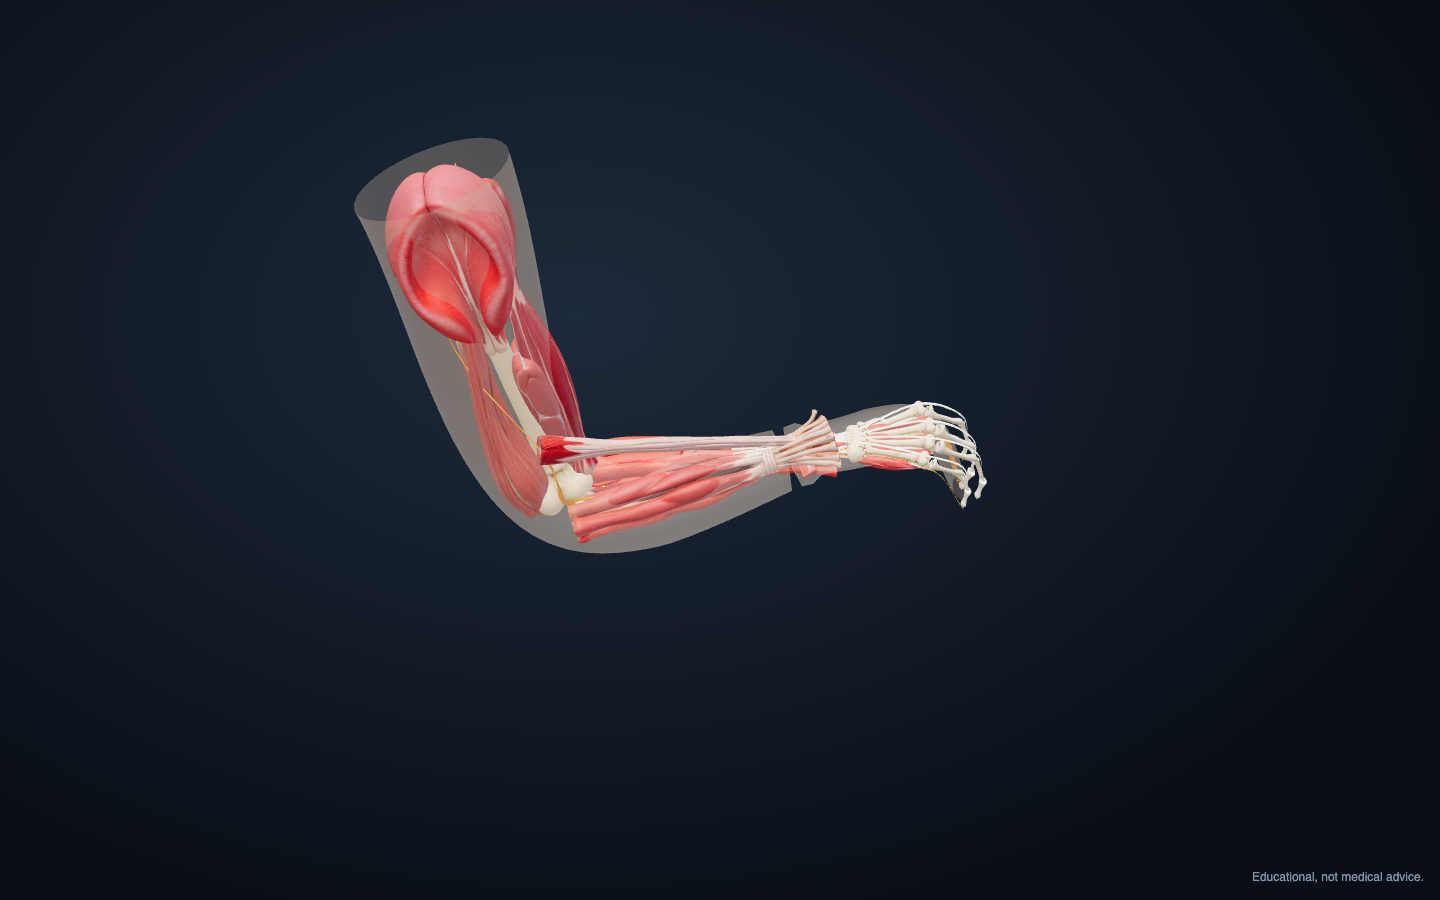
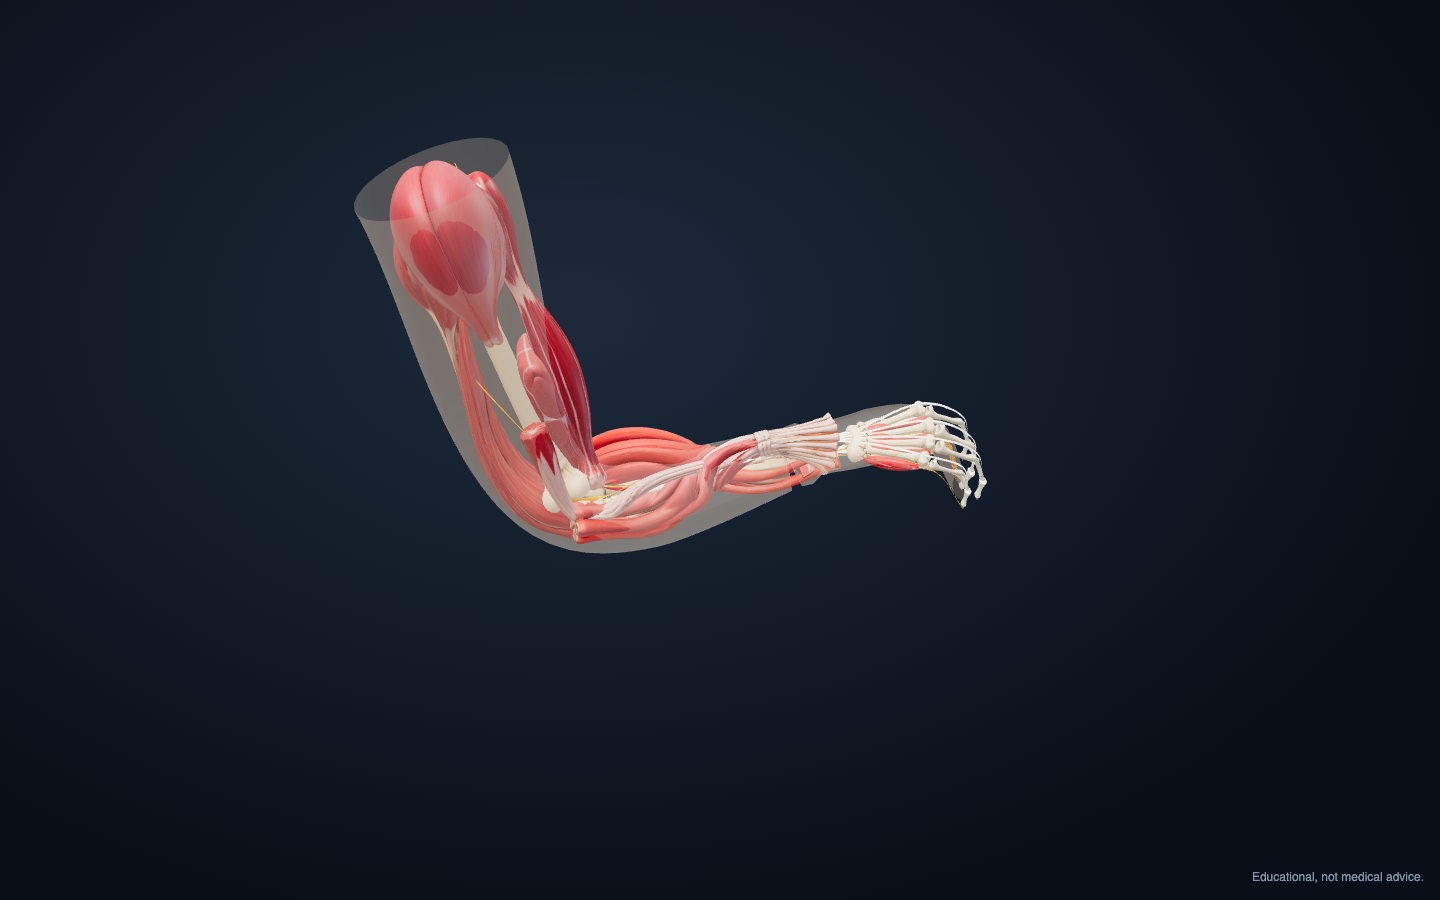
X-ray arm: turn it in 3D, muscles attached along anatomical paths
- Drag to rotate, scroll to zoom, arrows, Front/Side/Back in /arm-demo (view prop on ArmXrayView);
  hideLayers prop (e.g. no skin)
- Deltoid, biceps, triceps, brachialis, brachioradialis and the flexor/extensor groups are bent
  along origin -> joint -> insertion instead of straight rods; deltoid hollow faces the humeral head
- New previews: side, back, muscles on bones

Changed region(s): [[0.25, 0.1556, 0.625, 0.6222]]

diff --git a/src/biology/arm/placement.ts b/src/biology/arm/placement.ts
@@ -38,6 +38,8 @@ export interface Placement {
   xAlong?: 'lateral' | 'anterior' | 'axis';
   /** finger this instance belongs to (keystroke pulses) */
   finger?: FingerId;
+  /** turn the mesh 180 degrees about its long axis (e.g. so a cupped muscle's hollow faces the bone) */
+  flipSide?: boolean;
 }
 
 const FOUR: FingerId[] = ['index', 'middle', 'ring', 'little'];
@@ -54,22 +56,84 @@ function fingerJoints(f: FingerId) {
 export function placements(): Placement[] {
   const out: Placement[] = [
     // ---- layer 2: superficial muscles
-    // deltoid caps the head of the humerus: starts just above the shoulder point
-    // deltoid: a cupped shell over the shoulder, origin around the acromion, insertion at the deltoid tuberosity
-    { mesh: 'deltoid', part: 'deltoid', key: '', girth: 0.3, xAlong: 'anterior', path: [{ p: 'pose.elbow>shoulder@1.04', f: 'upper', l: 0.3 }, { p: 'pose.shoulder>elbow@0.45', f: 'upper', l: 0.7 }] },
-    { mesh: 'biceps', part: 'biceps', key: '', girth: 0.17, path: [{ p: 'pose.shoulder>elbow@0.06', f: 'upper', a: 0.45 }, { p: 'pose.elbow>wrist@0.1', f: 'fore', a: 0.5 }] },
-    { mesh: 'triceps', part: 'triceps', key: '', girth: 0.2, path: [{ p: 'pose.shoulder>elbow@0.1', f: 'upper', a: -0.5 }, { p: 'pose.elbow', f: 'upper', a: -0.65 }] },
-    { mesh: 'brachioradialis', part: 'brachioradialis', key: '', girth: 0.08, xAlong: 'anterior', path: [{ p: 'pose.shoulder>elbow@0.75', f: 'upper', l: 0.75 }, { p: 'pose.wrist', f: 'hand', l: 0.75, a: 0.1 }] },
-    // flexors: common origin on the MEDIAL epicondyle, bellies on the palm side
-    { mesh: 'forearm-flexors', part: 'forearm-flexors', key: '', girth: 0.17, path: [{ p: 'pose.elbow', f: 'fore', l: -0.6, a: 0.25 }, { p: 'pose.wrist', f: 'hand', a: 0.55, l: -0.05 }] },
-    // extensors: common origin on the LATERAL epicondyle, on the back of the forearm
-    { mesh: 'forearm-extensors', part: 'forearm-extensors', key: '', girth: 0.16, path: [{ p: 'pose.elbow', f: 'fore', l: 0.6, a: -0.2 }, { p: 'pose.wrist', f: 'hand', a: -0.55, l: 0.05 }] },
-    { mesh: 'thenar', part: 'thenar', key: '', girth: 0.05, path: [{ p: 'hand.wrist', f: 'hand', l: 0.45, a: 0.7 }, { p: 'hand.thumb_mcp', f: 'hand', a: 0.6 }] },
-    { mesh: 'hypothenar', part: 'hypothenar', key: '', girth: 0.04, path: [{ p: 'hand.wrist', f: 'hand', l: -0.5, a: 0.7 }, { p: 'hand.little_mcp', f: 'hand', a: 0.6 }] },
+    // Muscles that cross or wrap a joint are BENT along a path through their real origin, the joint and their
+    // insertion, so they lie on the bones instead of cutting straight across the bend of the elbow.
+    // deltoid: from the acromion, wrapping over the head of the humerus, to the deltoid tuberosity (lateral, mid-shaft)
+    {
+      mesh: 'deltoid', part: 'deltoid', key: '', girth: 0.25, xAlong: 'anterior', flipSide: true, // hollow faces the humeral head
+      path: [
+        { p: 'pose.elbow>shoulder@1.05', f: 'upper', l: 0.15 },
+        { p: 'pose.shoulder>elbow@0.1', f: 'upper', l: 0.6 },
+        { p: 'pose.shoulder>elbow@0.45', f: 'upper', l: 0.45 },
+      ],
+    },
+    // biceps: from the scapula (shoulder), down the FRONT of the humerus, over the elbow to the radial tuberosity
+    {
+      mesh: 'biceps', part: 'biceps', key: '', girth: 0.17,
+      path: [
+        { p: 'pose.shoulder>elbow@0.04', f: 'upper', a: 0.35 },
+        { p: 'pose.shoulder>elbow@0.55', f: 'upper', a: 0.7 },
+        { p: 'pose.shoulder>elbow@0.92', f: 'upper', a: 0.55 },
+        { p: 'pose.elbow>wrist@0.12', f: 'fore', a: 0.25, l: 0.25 },
+      ],
+    },
+    // triceps: from the back of the scapula / humerus, down the BACK of the arm to the olecranon
+    {
+      mesh: 'triceps', part: 'triceps', key: '', girth: 0.2,
+      path: [
+        { p: 'pose.shoulder>elbow@0.08', f: 'upper', a: -0.45 },
+        { p: 'pose.shoulder>elbow@0.5', f: 'upper', a: -0.75 },
+        { p: 'pose.shoulder>elbow@0.9', f: 'upper', a: -0.7 },
+        { p: 'pose.elbow', f: 'fore', a: -0.75 },
+      ],
+    },
+    // brachioradialis: lateral supracondylar ridge -> round the lateral side of the elbow -> along the THUMB side
+    // of the forearm -> radial styloid
+    {
+      mesh: 'brachioradialis', part: 'brachioradialis', key: '', girth: 0.08, xAlong: 'anterior',
+      path: [
+        { p: 'pose.shoulder>elbow@0.7', f: 'upper', l: 0.6 },
+        { p: 'pose.elbow', f: 'upper', l: 0.7, a: 0.2 },
+        { p: 'pose.elbow>wrist@0.35', f: 'fore', l: 0.6, a: 0.25 },
+        { p: 'pose.wrist', f: 'hand', l: 0.55, a: 0.1 },
+      ],
+    },
+    // flexors: common origin on the MEDIAL epicondyle, hugging the palm side of the forearm to the wrist
+    {
+      mesh: 'forearm-flexors', part: 'forearm-flexors', key: '', girth: 0.16,
+      path: [
+        { p: 'pose.elbow', f: 'fore', l: -0.75, a: 0.15 },
+        { p: 'pose.elbow>wrist@0.3', f: 'fore', a: 0.55, l: -0.35 },
+        { p: 'pose.elbow>wrist@0.7', f: 'fore', a: 0.55, l: -0.1 },
+        { p: 'pose.wrist', f: 'hand', a: 0.5 },
+      ],
+    },
+    // extensors: common origin on the LATERAL epicondyle, along the back of the forearm to the wrist
+    {
+      mesh: 'forearm-extensors', part: 'forearm-extensors', key: '', girth: 0.15,
+      path: [
+        { p: 'pose.elbow', f: 'fore', l: 0.75, a: -0.1 },
+        { p: 'pose.elbow>wrist@0.3', f: 'fore', a: -0.55, l: 0.35 },
+        { p: 'pose.elbow>wrist@0.7', f: 'fore', a: -0.55, l: 0.1 },
+        { p: 'pose.wrist', f: 'hand', a: -0.5 },
+      ],
+    },
+    // thenar: from the flexor retinaculum / trapezium (thumb side of the wrist) to the base of the thumb
+    { mesh: 'thenar', part: 'thenar', key: '', girth: 0.05, path: [{ p: 'hand.wrist>index_mcp@0.15', f: 'hand', l: 0.4, a: 0.55 }, { p: 'hand.thumb_mcp', f: 'hand', a: 0.45 }] },
+    // hypothenar: from the pisiform / hamate (little-finger side of the wrist) to the base of the little finger
+    { mesh: 'hypothenar', part: 'hypothenar', key: '', girth: 0.04, path: [{ p: 'hand.wrist>little_mcp@0.15', f: 'hand', l: -0.5, a: 0.55 }, { p: 'hand.little_mcp', f: 'hand', a: 0.45, l: -0.2 }] },
     // ---- layer 3: deep muscles
-    { mesh: 'brachialis', part: 'brachialis', key: '', girth: 0.15, path: [{ p: 'pose.shoulder>elbow@0.5', f: 'upper', a: 0.2 }, { p: 'pose.elbow>wrist@0.08', f: 'fore', a: 0.3 }] },
+    // brachialis: lower half of the front of the humerus, DEEP to the biceps, over the elbow to the coronoid process
+    {
+      mesh: 'brachialis', part: 'brachialis', key: '', girth: 0.14,
+      path: [
+        { p: 'pose.shoulder>elbow@0.5', f: 'upper', a: 0.3 },
+        { p: 'pose.shoulder>elbow@0.9', f: 'upper', a: 0.4 },
+        { p: 'pose.elbow>wrist@0.1', f: 'fore', a: 0.15, l: -0.15 },
+      ],
+    },
     // pronator teres: medial epicondyle -> lateral side of the mid radius (oblique)
-    { mesh: 'pronator-teres', part: 'pronators', key: 'teres', girth: 0.065, path: [{ p: 'pose.elbow', f: 'fore', l: -0.6, a: 0.3 }, { p: 'pose.elbow>wrist@0.5', f: 'fore', l: 0.45, a: 0.25 }] },
+    { mesh: 'pronator-teres', part: 'pronators', key: 'teres', girth: 0.055, path: [{ p: 'pose.elbow', f: 'fore', l: -0.5, a: 0.2 }, { p: 'pose.elbow>wrist@0.5', f: 'fore', l: 0.3, a: 0.15 }] },
     // pronator quadratus: a square sheet ACROSS the distal radius and ulna
     { mesh: 'pronator-quadratus', part: 'pronators', key: 'quadratus', girth: 0.05, xAlong: 'axis', path: [{ p: 'pose.elbow>wrist@0.88', f: 'fore', l: -0.6, a: 0.45 }, { p: 'pose.elbow>wrist@0.88', f: 'fore', l: 0.6, a: 0.45 }] },
     // ---- layer 5: nerves and arteries (bent along the limb)

diff --git a/src/biology/arm/ArmDemo.tsx b/src/biology/arm/ArmDemo.tsx
@@ -32,10 +32,12 @@ export default function ArmDemo() {
   const [caption, setCaption] = useState<string>('');
   const [busy, setBusy] = useState(false);
   const cancelTour = useRef(false);
+  const drag = useRef<{ x: number; y: number; yaw: number; pitch: number } | null>(null);
 
   useEffect(() => {
     loadArmTeardown().then(setTd);
     useArmStore.getState().setActive(true);
+    if (q.get('yaw') || q.get('pitch')) useArmStore.getState().setView({ yaw: Number(q.get('yaw') ?? 0), pitch: Number(q.get('pitch') ?? 0) });
     let stop: (() => void) | undefined;
     const pausedAt = capture ? Number(q.get('at') ?? 2400) : undefined;
     // capture modes run after the replay has fed the detector (so "typing" and its glowing parts are known)
@@ -100,6 +102,13 @@ export default function ArmDemo() {
       if (e.key === 'r' || e.key === 'R') reset();
       if (e.key === 'f' || e.key === 'F') useArmStore.getState().setFrozen(!useArmStore.getState().frozen);
       if (e.key === ' ') ask();
+      const v = useArmStore.getState().view;
+      const step = Math.PI / 12; // 15 degrees
+      if (e.key === 'ArrowLeft') useArmStore.getState().setView({ yaw: v.yaw - step });
+      if (e.key === 'ArrowRight') useArmStore.getState().setView({ yaw: v.yaw + step });
+      if (e.key === 'ArrowUp') useArmStore.getState().setView({ pitch: v.pitch - step });
+      if (e.key === 'ArrowDown') useArmStore.getState().setView({ pitch: v.pitch + step });
+      if (e.key === '0') useArmStore.getState().resetView();
     };
     addEventListener('keydown', onKey);
     return () => removeEventListener('keydown', onKey);
@@ -112,7 +121,24 @@ export default function ArmDemo() {
   };
 
   return (
-    <div style={{ position: 'fixed', inset: 0, background: 'radial-gradient(ellipse at 40% 35%, #1d2a3b 0%, #0a0f17 75%)', overflow: 'hidden' }}>
+    <div
+      style={{ position: 'fixed', inset: 0, background: 'radial-gradient(ellipse at 40% 35%, #1d2a3b 0%, #0a0f17 75%)', overflow: 'hidden', cursor: drag.current ? 'grabbing' : 'grab', touchAction: 'none' }}
+      onPointerDown={(e) => {
+        if ((e.target as HTMLElement).closest('button')) return;
+        drag.current = { x: e.clientX, y: e.clientY, yaw: s.view.yaw, pitch: s.view.pitch };
+        (e.currentTarget as HTMLElement).setPointerCapture(e.pointerId);
+      }}
+      onPointerMove={(e) => {
+        const d = drag.current;
+        if (!d) return;
+        // 1 px = 0.6 degree
+        useArmStore.getState().setView({ yaw: d.yaw + (e.clientX - d.x) * 0.0105, pitch: d.pitch + (e.clientY - d.y) * 0.0105 });
+      }}
+      onPointerUp={() => (drag.current = null)}
+      onPointerCancel={() => (drag.current = null)}
+      onWheel={(e) => useArmStore.getState().setView({ zoom: s.view.zoom * Math.exp(-e.deltaY * 0.0015) })}
+      onDoubleClick={() => useArmStore.getState().resetView()}
+    >
       <ArmXrayView
         landmarks={s.frame}
         explode={s.explode}
@@ -121,6 +147,8 @@ export default function ArmDemo() {
         activity={s.activity}
         keystrokes={s.keystrokes}
         frozen={s.frozen}
+        view={s.view}
+        hideLayers={(q.get('hide') ?? '').split(',').filter(Boolean).map(Number)}
         onReady={() => setTimeout(() => (document.title = 'ready'), 1800)}
       />
       {!capture && (
@@ -139,9 +167,19 @@ export default function ArmDemo() {
           <button style={btn} onClick={reset}>
             Reset
           </button>
+          <span style={{ width: 8 }} />
+          <button style={btn} onClick={() => useArmStore.getState().resetView()} title="Lined up with the real arm (0 or double-click)">
+            Front
+          </button>
+          <button style={btn} onClick={() => useArmStore.getState().setView({ yaw: Math.PI / 2, pitch: 0 })}>
+            Side
+          </button>
+          <button style={btn} onClick={() => useArmStore.getState().setView({ yaw: Math.PI, pitch: 0 })}>
+            Back
+          </button>
           <span style={{ color: '#9fb3c8', font: '13px -apple-system, Helvetica, sans-serif', marginLeft: 8 }}>
             {s.activity === 'typing' ? `typing · ${Math.round(s.confidence * 100)}%` : 'no typing detected'} · {s.source}
-            {s.frozen ? ' · frozen' : ''}
+            {s.frozen ? ' · frozen' : ''} · drag to rotate, scroll to zoom
           </span>
         </div>
       )}

diff --git a/src/biology/arm/ArmXrayView.tsx b/src/biology/arm/ArmXrayView.tsx
@@ -27,6 +27,13 @@ export interface ArmXrayProps {
   showLabels?: boolean;
   /** called once the meshes are loaded and the first frame is drawn (previews) */
   onReady?: () => void;
+  /**
+   * Turn the arm in 3D about its own centre (yaw/pitch in radians, zoom factor). 0/0/1 keeps it lined up with
+   * the real arm; anything else is for looking around it (e.g. /arm-demo drag-to-rotate).
+   */
+  view?: { yaw: number; pitch: number; zoom: number };
+  /** layers not drawn at all (e.g. [1] = no skin) */
+  hideLayers?: number[];
 }
 
 const FOV = 30;
@@ -82,7 +89,16 @@ export function ArmXrayView(props: ArmXrayProps) {
 
     const camera = new THREE.PerspectiveCamera(FOV, 1, 1, 20000);
     const arm = new ArmXray(td);
-    scene.add(arm.root);
+    // pivot (at the arm's centre) -> offset (-centre) -> arm.root: rotating the pivot spins the arm in place
+    const pivot = new THREE.Group();
+    const offset = new THREE.Group();
+    pivot.add(offset);
+    offset.add(arm.root);
+    scene.add(pivot);
+    const centre = new THREE.Vector3();
+    let centreSet = false;
+    const userQ = new THREE.Quaternion();
+    const euler = new THREE.Euler(0, 0, 0, 'YXZ');
     if (import.meta.env.DEV) (window as unknown as { __arm?: unknown }).__arm = { arm, scene, camera };
     let readySent = false;
     let w = 0;
@@ -95,6 +111,7 @@ export function ArmXrayView(props: ArmXrayProps) {
     // direction from the target to the camera; (0,0,1) = straight on, like the real camera
     const viewDir = new THREE.Vector3(0, 0, 1);
     const viewDirTarget = new THREE.Vector3(0, 0, 1);
+    let userZoom = 1;
 
     let raf = 0;
     let lastLabels = 0;
@@ -126,6 +143,7 @@ export function ArmXrayView(props: ArmXrayProps) {
         now,
         frozen: p.frozen,
         side: p.side,
+        hideLayers: p.hideLayers,
       });
       // tour framing: when a layer is focused, drift slightly towards it and zoom in a little
       if (p.layerFocus && p.explode > 0.5) {
@@ -152,10 +170,24 @@ export function ArmXrayView(props: ArmXrayProps) {
       } else viewDirTarget.set(0, 0, 1);
       viewDir.lerp(viewDirTarget, 0.05).normalize();
       look.lerp(lookTarget, 0.06);
+      // user rotation about the arm's centre (shoulder/elbow/wrist/fingertips average), smoothed
+      if (geo) {
+        const c = geo.p.shoulder.clone().add(geo.p.elbow).add(geo.p.wrist).add(geo.p.hand[12]).multiplyScalar(0.25);
+        if (!centreSet) centre.copy(c);
+        else centre.lerp(c, 0.1);
+        centreSet = true;
+      }
+      const v = p.view ?? { yaw: 0, pitch: 0, zoom: 1 };
+      euler.set(v.pitch, v.yaw, 0);
+      userQ.setFromEuler(euler);
+      pivot.quaternion.slerp(userQ, 0.18);
+      pivot.position.copy(centre);
+      offset.position.copy(centre).negate();
       camera.position.copy(look).addScaledVector(viewDir, dist);
       camera.up.set(0, 1, 0);
       if (Math.abs(viewDir.y) > 0.9) camera.up.copy(geo ? geo.elbowFrame.axis : new THREE.Vector3(1, 0, 0));
-      camera.zoom = zoom;
+      userZoom += ((p.view?.zoom ?? 1) - userZoom) * 0.15;
+      camera.zoom = zoom * userZoom;
       camera.updateProjectionMatrix();
       camera.lookAt(look);
       arm.perspective = (z) => (dist / Math.max(1, dist - z)) * zoom;
@@ -166,7 +198,8 @@ export function ArmXrayView(props: ArmXrayProps) {
         camera.updateMatrixWorld();
         setLabels(
           out.map((l) => {
-            const v = new THREE.Vector3(...l.world).project(camera);
+            pivot.updateMatrixWorld(true);
+            const v = arm.root.localToWorld(new THREE.Vector3(...l.world)).project(camera);
             const at: [number, number] = [((v.x + 1) / 2) * w, ((1 - v.y) / 2) * h];
             return { ...l, at, label: [at[0] + 70, at[1] - 34] };
           }),

diff --git a/src/biology/arm/ArmXray.ts b/src/biology/arm/ArmXray.ts
@@ -28,6 +28,8 @@ export interface ArmXrayInput {
   /** freeze: keep the last placement, ignore new landmarks */
   frozen?: boolean;
   side?: 'right' | 'left';
+  /** layers not drawn at all (e.g. [1] = no skin) */
+  hideLayers?: number[];
 }
 
 export interface ArmLabel {
@@ -284,7 +286,7 @@ export class ArmXray {
     const Y = Yv.clone().divideScalar(L);
     const X = this.sideDir(A.frame, inst.pl.xAlong, Y);
     const Z = new THREE.Vector3().crossVectors(X, Y).normalize();
-    const s = this.sideScale(inst.pl, L, g);
+    const s = this.sideScale(inst.pl, L, g) * (inst.pl.flipSide ? -1 : 1);
     inst.mesh.matrix.makeBasis(X.multiplyScalar(s), Y.multiplyScalar(L), Z.multiplyScalar(s)).setPosition(A.pos);
     inst.mesh.matrixWorldNeedsUpdate = true;
     inst.mid.copy(A.pos).lerp(B.pos, 0.5);
@@ -315,7 +317,8 @@ export class ArmXray {
       xs.push(X);
       zs.push(new THREE.Vector3().crossVectors(X, T).normalize());
     }
-    const s = this.sideScale(inst.pl, total, g);
+    const fs = inst.pl.flipSide ? -1 : 1;
+    const s = this.sideScale(inst.pl, total, g) * fs;
     const b = inst.base!;
     const pos = inst.mesh.geometry.getAttribute('position') as THREE.BufferAttribute;
     const nor = inst.mesh.geometry.getAttribute('normal') as THREE.BufferAttribute;
@@ -333,7 +336,7 @@ export class ArmXray {
       arr[i * 3] = px + X.x * x + Z.x * z;
       arr[i * 3 + 1] = py + X.y * x + Z.y * z;
       arr[i * 3 + 2] = pz + X.z * x + Z.z * z;
-      const nx = b.n[i * 3], ny = b.n[i * 3 + 1], nz = b.n[i * 3 + 2];
+      const nx = b.n[i * 3] * fs, ny = b.n[i * 3 + 1], nz = b.n[i * 3 + 2] * fs;
       narr[i * 3] = X.x * nx + T.x * ny + Z.x * nz;
       narr[i * 3 + 1] = X.y * nx + T.y * ny + Z.y * nz;
       narr[i * 3 + 2] = X.z * nx + T.z * ny + Z.z * nz;
@@ -411,6 +414,7 @@ export class ArmXray {
     const g = this.geom;
     this.root.visible = !!g;
     if (!g) return [];
+    for (const l of LAYERS) this.layerGroups.get(l)!.visible = !(input.hideLayers ?? []).includes(l);
 
     // ---- keystroke pulses: newest press / lift per finger
     const press = new Map<FingerId, number>();

diff --git a/src/biology/arm/armStore.ts b/src/biology/arm/armStore.ts
@@ -23,7 +23,11 @@ export interface ArmState {
   source: ArmSource;
   frozen: boolean;
   recording: boolean;
+  /** user view: yaw / pitch (radians) about the arm's centre, zoom factor. 0/0/1 = lined up with the camera */
+  view: { yaw: number; pitch: number; zoom: number };
 
+  setView: (v: Partial<ArmState['view']>) => void;
+  resetView: () => void;
   setActive: (on: boolean) => void;
   setExplode: (v: number) => void;
   setLayerFocus: (l: number | null) => void;
@@ -51,7 +55,17 @@ export const useArmStore = create<ArmState>((set) => ({
   source: 'live',
   frozen: false,
   recording: false,
+  view: { yaw: 0, pitch: 0, zoom: 1 },
 
+  setView: (v) =>
+    set((s) => ({
+      view: {
+        yaw: v.yaw ?? s.view.yaw,
+        pitch: Math.max(-1.5, Math.min(1.5, v.pitch ?? s.view.pitch)),
+        zoom: Math.max(0.4, Math.min(3, v.zoom ?? s.view.zoom)),
+      },
+    })),
+  resetView: () => set({ view: { yaw: 0, pitch: 0, zoom: 1 } }),
   setActive: (active) => set({ active }),
   setExplode: (explode) => set({ explode: Math.max(0, Math.min(1, explode)) }),
   setLayerFocus: (layerFocus) => set({ layerFocus }),

diff --git a/public/cache/arm-hand/README.md b/public/cache/arm-hand/README.md
@@ -42,8 +42,21 @@ itself when the palm turns down**. Nerves, arteries and tendons are bent along t
   activity="typing"
   keystrokes={[{ finger: 'index', kind: 'press', t }]}   // press: flexor slip flashes, tendon slides ~5 mm and back (~150 ms); lift: extensor flash
   frozen={false}             // freeze-frame: the arm stays where it was
+  view={{ yaw: 0, pitch: 0, zoom: 1 }}   // turn the arm in 3D about its own centre (0/0/1 = lined up with the real arm)
+  hideLayers={[1]}           // layers not drawn at all, e.g. [1] = no skin
 />
 ```
+
+**Turning it in 3D** (`/arm-demo`): drag to rotate, scroll or pinch to zoom, arrow keys = 15 degrees, double-click
+or `0` = back in line with the real arm, buttons **Front / Side / Back**. `?yaw=1.57&pitch=0&hide=1` in the URL sets
+the angle and hides layers (previews). On the live camera view keep `view` at 0/0/1 so the overlay stays on the arm.
+The XREAL glasses only mirror the screen, so they cannot rotate it; walking round the real arm does (it is tracked).
+
+**How the muscles attach**: muscles that cross or wrap a joint (deltoid, biceps, triceps, brachialis,
+brachioradialis, the flexor and extensor groups) are bent along a path through their real origin, the joint and
+their insertion (e.g. biceps: scapula -> front of the humerus -> over the elbow -> radial tuberosity; triceps ->
+olecranon; flexors from the medial epicondyle, extensors from the lateral epicondyle). Short muscles are placed
+between two points. See `src/biology/arm/placement.ts`.
 
 A transparent canvas over the video, like `src/overlay/Overlay.tsx`; landmarks are smoothed (exponential moving
 average). It is plain three.js (the repo has no react-three-fiber).
